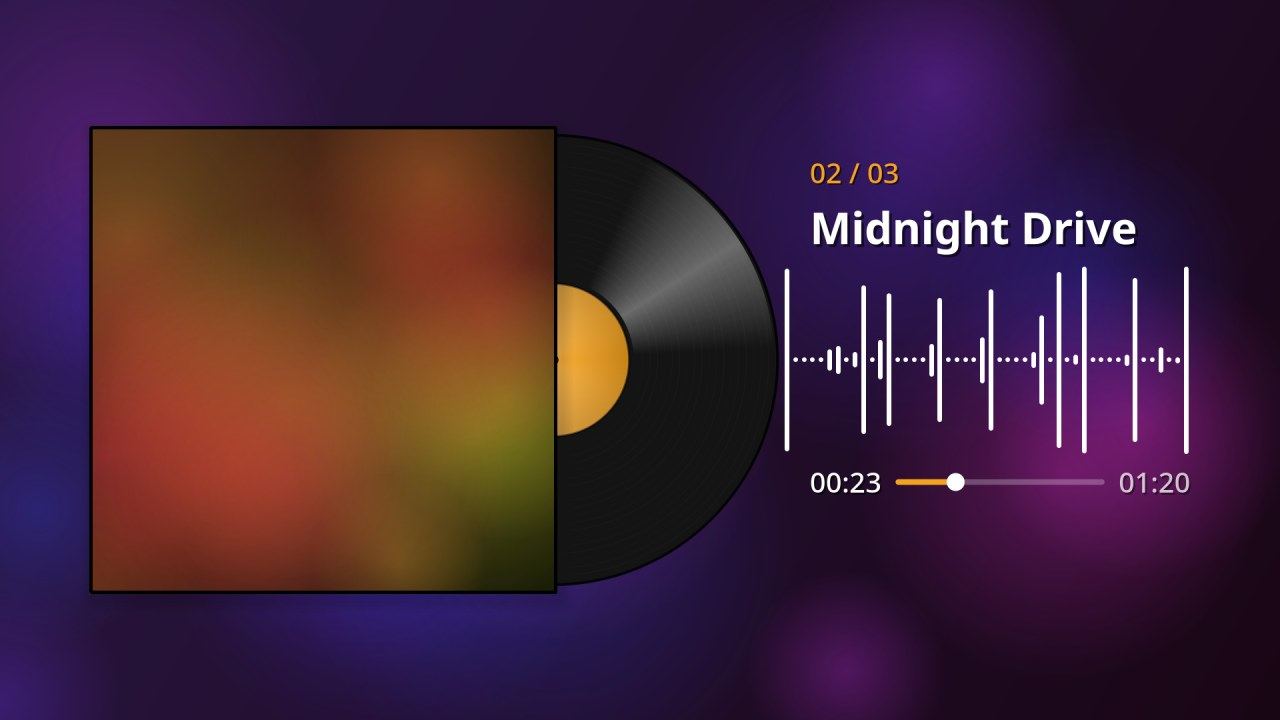
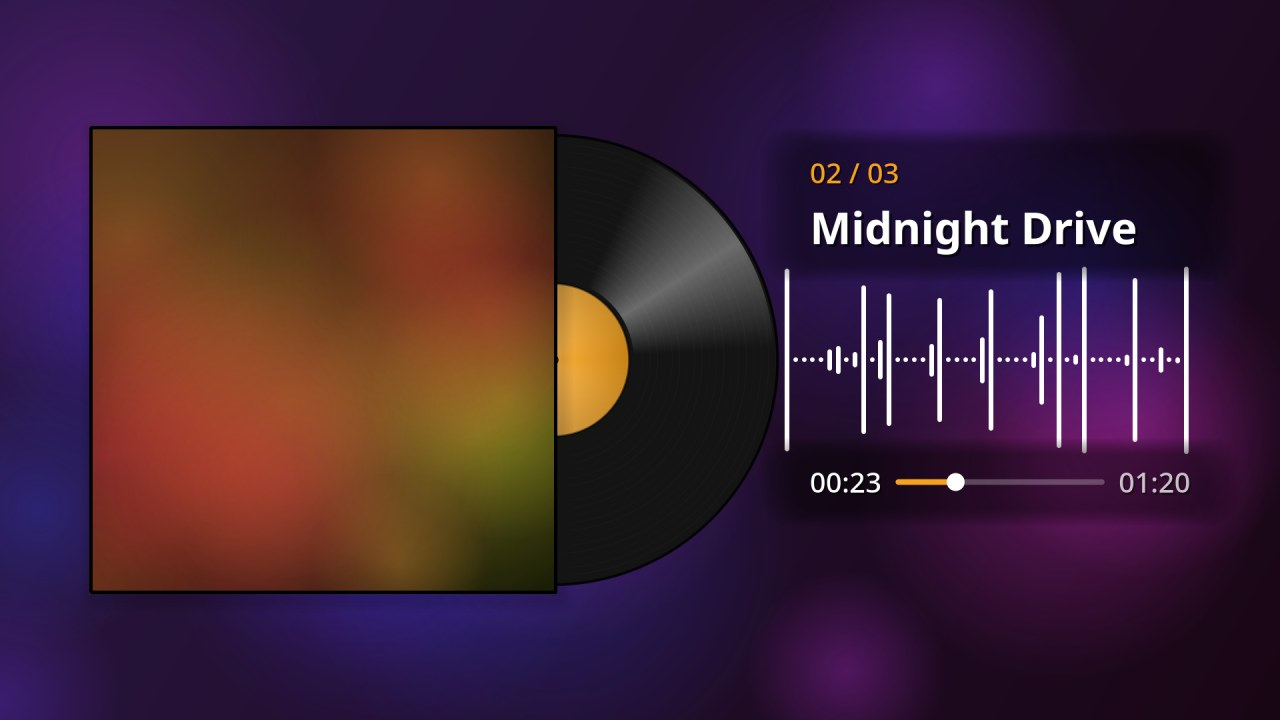
Vinil: fundo escuro atrás do nome e do contador
Nova opção em Nome e contador: 'Fundo atrás do texto' — Sombra suave (esfumada,
padrão), Painel de vidro ou Nenhum — com opacidade (padrão 45%) e cor. Escurece
só a área do texto (blocos alinhados em coluna), sem cobrir capa, disco nem onda.
Custo ~1 ms/quadro em 1080p. Teste novo (55).

Changed region(s): [[0.5938, 0.1833, 0.9375, 0.3972], [0.7188, 0.6111, 0.9688, 0.7333]]

diff --git a/src/wavegen/styles/vinyl.py b/src/wavegen/styles/vinyl.py
@@ -125,6 +125,14 @@ class Vinyl(Style):
         ParamSpec("text_shadow", "Sombra no texto", "bool", True, group="Nome e contador"),
         ParamSpec("title_anim", "Animar troca de faixa", "bool", True, group="Nome e contador",
                   tip="O nome entra deslizando quando a faixa muda"),
+        ParamSpec("text_bg", "Fundo atrás do texto", "choice", "soft", group="Nome e contador",
+                  choices=[("soft", "Sombra suave (esfumada)"), ("glass", "Painel de vidro"),
+                           ("off", "Nenhum")],
+                  tip="Escurece só a área do nome e do contador para o texto se destacar"),
+        ParamSpec("text_bg_opacity", "Opacidade do fundo do texto", "float", 0.45, 0.0, 0.9, 0.05,
+                  group="Nome e contador", suffix=""),
+        ParamSpec("text_bg_color", "Cor do fundo do texto", "color", "#000000",
+                  group="Nome e contador"),
     ]
     default_box = (0.5, 0.5, 0.86, 0.65)
 
@@ -173,6 +181,60 @@ class Vinyl(Style):
 
     # ------------------------------------------------------------------ nome + contador
     @staticmethod
+    def _draw_text_bg(p, rects: list[QRectF], prm, S: float, area: QRectF):
+        """Escurece só a área do texto. Os pedaços próximos (número + nome, contador + barra)
+        viram um bloco; cada bloco ganha uma sombra esfumada ou um painel de vidro."""
+        rects = sorted(rects, key=lambda r: r.top())
+        blocks: list[QRectF] = []
+        for r in rects:
+            if blocks and r.top() <= blocks[-1].bottom() + S * 0.04:
+                blocks[-1] = blocks[-1].united(r)
+            else:
+                blocks.append(QRectF(r))
+        # mesma largura para todos os blocos: forma uma coluna alinhada, mais harmoniosa
+        x0 = min(b.left() for b in blocks)
+        x1 = max(b.right() for b in blocks)
+        blocks = [QRectF(x0, b.top(), x1 - x0, b.height()) for b in blocks]
+        op = float(prm["text_bg_opacity"])
+        base = QColor(prm["text_bg_color"])
+        padx, pady = S * 0.035, S * 0.018
+        p.save()
+        p.setRenderHint(p.RenderHint.Antialiasing)
+        p.setPen(Qt.NoPen)
+        for b in blocks:
+            r = b.adjusted(-padx, -pady, padx, pady)
+            if prm["text_bg"] == "glass":
+                rad = min(r.height() / 2, S * 0.035)
+                c = QColor(base)
+                c.setAlphaF(op)
+                p.setBrush(c)
+                p.drawRoundedRect(r, rad, rad)
+                hl = QLinearGradient(r.topLeft(), r.bottomLeft())     # brilho sutil no topo
+                hl.setColorAt(0.0, QColor(255, 255, 255, int(28 * min(1.0, op * 2))))
+                hl.setColorAt(0.5, QColor(255, 255, 255, 0))
+                p.setBrush(hl)
+                p.drawRoundedRect(r, rad, rad)
+                p.setBrush(Qt.NoBrush)
+                p.setPen(QPen(QColor(255, 255, 255, int(40 * min(1.0, op * 2))), max(1.0, S * 0.0025)))
+                p.drawRoundedRect(r.adjusted(0.5, 0.5, -0.5, -0.5), rad, rad)
+                p.setPen(Qt.NoPen)
+            else:
+                # sombra esfumada: camadas sobrepostas, mais forte no centro e sumindo nas
+                # bordas, sem contorno visível — escurece sem "caixa"
+                n = 16
+                feather = S * 0.07
+                a1 = 1 - (1 - min(op, 0.95)) ** (1 / n)
+                c = QColor(base)
+                c.setAlphaF(a1)
+                p.setBrush(c)
+                for i in range(n):
+                    e = feather * (1 - i / (n - 1))
+                    rr = r.adjusted(-e, -e * 0.5, e, e * 0.5)
+                    rad = min(rr.height() / 2, S * 0.06)
+                    p.drawRoundedRect(rr, rad, rad)
+        p.restore()
+
+    @staticmethod
     def _fmt(sec: float, hours: bool) -> str:
         sec = max(0, int(sec))
         h, m, s = sec // 3600, sec % 3600 // 60, sec % 60
@@ -199,7 +261,14 @@ class Vinyl(Style):
                     pass
             return f
 
+        rects: list[QRectF] = []
+        measuring = [False]
+
         def text(x, y_base, s, f, c, alpha=1.0):
+            if measuring[0]:
+                fm = QFontMetricsF(f)
+                rects.append(QRectF(x, y_base - fm.ascent(), fm.horizontalAdvance(s), fm.height()))
+                return
             p.setFont(f)
             if prm["text_shadow"]:
                 sh = QColor(0, 0, 0, int(150 * alpha))
@@ -236,66 +305,73 @@ class Vinyl(Style):
 
         p.save()
         p.setRenderHint(p.RenderHint.TextAntialiasing)
-        if prm["show_title"]:
-            a, dx = 1.0, 0.0
-            if prm["title_anim"] and d.track_start > 0:          # não anima a 1ª faixa
-                ph = min(1.0, d.track_pos / 0.7)
-                e = 1 - (1 - ph) ** 3                         # ease-out
-                a, dx = e, (1 - e) * S * 0.12
-            if num_h:
-                num = f"{d.track_index:02d} / {d.track_count:02d}"
-                text(x + dx, y_title + fm_s.ascent(), num, f_small, acc, a)
-            # nome longo: diminui a fonte (até 60%) antes de cortar com "…"
-            ft, fmt = f_title, fm_t
-            tw = fm_t.horizontalAdvance(d.track_title)
-            if tw > wmax:
-                ft = font(f_title.pixelSize() * max(0.6, wmax / tw), QFont.Bold)
-                fmt = QFontMetricsF(ft)
-            title = fmt.elidedText(d.track_title, Qt.ElideRight, wmax)
-            base_y = y_title + num_h + fm_t.ascent() - (fm_t.ascent() - fmt.ascent()) * 0.5
-            text(x + dx, base_y, title, ft, col, a)
+        use_bg = prm["text_bg"] != "off" and prm["text_bg_opacity"] > 0
+        for measuring[0] in ((True, False) if use_bg else (False,)):
+            if not measuring[0] and rects:
+                self._draw_text_bg(p, rects, prm, S, area)
+            if prm["show_title"]:
+                a, dx = 1.0, 0.0
+                if prm["title_anim"] and d.track_start > 0:          # não anima a 1ª faixa
+                    ph = min(1.0, d.track_pos / 0.7)
+                    e = 1 - (1 - ph) ** 3                         # ease-out
+                    a, dx = e, (1 - e) * S * 0.12
+                if num_h:
+                    num = f"{d.track_index:02d} / {d.track_count:02d}"
+                    text(x + dx, y_title + fm_s.ascent(), num, f_small, acc, a)
+                # nome longo: diminui a fonte (até 60%) antes de cortar com "…"
+                ft, fmt = f_title, fm_t
+                tw = fm_t.horizontalAdvance(d.track_title)
+                if tw > wmax:
+                    ft = font(f_title.pixelSize() * max(0.6, wmax / tw), QFont.Bold)
+                    fmt = QFontMetricsF(ft)
+                title = fmt.elidedText(d.track_title, Qt.ElideRight, wmax)
+                base_y = y_title + num_h + fm_t.ascent() - (fm_t.ascent() - fmt.ascent()) * 0.5
+                text(x + dx, base_y, title, ft, col, a)
 
-        if prm["show_counter"]:
-            hours = d.track_len >= 3600
-            el, tot = d.track_pos, d.track_len
-            mode = prm["counter_mode"]
-            if mode == "remaining":
-                left_s, right_s = "-" + self._fmt(tot - el, hours), ""
-            elif mode == "elapsed":
-                left_s, right_s = self._fmt(el, hours), ""
-            else:
-                left_s, right_s = self._fmt(el, hours), self._fmt(tot, hours)
-            if not prm["show_title"] and num_h:
-                left_s = f"{d.track_index:02d}/{d.track_count:02d}   " + left_s
-            yb = y_cnt + fm_s.ascent()
-            if prm["show_progress"]:
-                bar_y = y_cnt + fm_s.height() * 0.5
-                lw = fm_s.horizontalAdvance(left_s) + S * 0.03
-                rw = (fm_s.horizontalAdvance(right_s) + S * 0.03) if right_s else 0.0
-                bx0, bx1 = x + lw, x + wmax - rw
-                if bx1 - bx0 < S * 0.15:                     # pouco espaço: barra embaixo
-                    bx0, bx1 = x, x + wmax
-                    bar_y = y_cnt + fm_s.height() * 1.45
-                    rw = 0.0
-                text(x, yb, left_s, f_small, col)
-                if right_s:
-                    rx = x + wmax - fm_s.horizontalAdvance(right_s)
-                    text(rx, yb, right_s, f_small, col, 0.75)
-                th = max(2.0, S * 0.012 * k)
-                frac = 0.0 if tot <= 0 else min(1.0, el / tot)
-                p.setPen(Qt.NoPen)
-                bg = QColor(col)
-                bg.setAlphaF(0.25)
-                p.setBrush(bg)
-                p.drawRoundedRect(QRectF(bx0, bar_y - th / 2, bx1 - bx0, th), th / 2, th / 2)
-                p.setBrush(acc)
-                fx = bx0 + (bx1 - bx0) * frac
-                p.drawRoundedRect(QRectF(bx0, bar_y - th / 2, max(th, fx - bx0), th), th / 2, th / 2)
-                p.setBrush(col)
-                p.drawEllipse(QPointF(fx, bar_y), th * 1.6, th * 1.6)
-            else:
-                s = left_s + (f"  /  {right_s}" if right_s else "")
-                text(x, yb, s, f_small, col)
+            if prm["show_counter"]:
+                hours = d.track_len >= 3600
+                el, tot = d.track_pos, d.track_len
+                mode = prm["counter_mode"]
+                if mode == "remaining":
+                    left_s, right_s = "-" + self._fmt(tot - el, hours), ""
+                elif mode == "elapsed":
+                    left_s, right_s = self._fmt(el, hours), ""
+                else:
+                    left_s, right_s = self._fmt(el, hours), self._fmt(tot, hours)
+                if not prm["show_title"] and num_h:
+                    left_s = f"{d.track_index:02d}/{d.track_count:02d}   " + left_s
+                yb = y_cnt + fm_s.ascent()
+                if prm["show_progress"]:
+                    bar_y = y_cnt + fm_s.height() * 0.5
+                    lw = fm_s.horizontalAdvance(left_s) + S * 0.03
+                    rw = (fm_s.horizontalAdvance(right_s) + S * 0.03) if right_s else 0.0
+                    bx0, bx1 = x + lw, x + wmax - rw
+                    if bx1 - bx0 < S * 0.15:                     # pouco espaço: barra embaixo
+                        bx0, bx1 = x, x + wmax
+                        bar_y = y_cnt + fm_s.height() * 1.45
+                        rw = 0.0
+                    text(x, yb, left_s, f_small, col)
+                    if right_s:
+                        rx = x + wmax - fm_s.horizontalAdvance(right_s)
+                        text(rx, yb, right_s, f_small, col, 0.75)
+                    th = max(2.0, S * 0.012 * k)
+                    if measuring[0]:
+                        rects.append(QRectF(bx0, bar_y - th * 1.6, bx1 - bx0, th * 3.2))
+                        continue
+                    frac = 0.0 if tot <= 0 else min(1.0, el / tot)
+                    p.setPen(Qt.NoPen)
+                    bg = QColor(col)
+                    bg.setAlphaF(0.25)
+                    p.setBrush(bg)
+                    p.drawRoundedRect(QRectF(bx0, bar_y - th / 2, bx1 - bx0, th), th / 2, th / 2)
+                    p.setBrush(acc)
+                    fx = bx0 + (bx1 - bx0) * frac
+                    p.drawRoundedRect(QRectF(bx0, bar_y - th / 2, max(th, fx - bx0), th), th / 2, th / 2)
+                    p.setBrush(col)
+                    p.drawEllipse(QPointF(fx, bar_y), th * 1.6, th * 1.6)
+                else:
+                    s = left_s + (f"  /  {right_s}" if right_s else "")
+                    text(x, yb, s, f_small, col)
         p.restore()
 
     def _draw_wave(self, p, area: QRectF, d, prm, u, S):

diff --git a/tests/test_core.py b/tests/test_core.py
@@ -825,6 +825,35 @@ class TestVinylQuality(unittest.TestCase):
             self.assertGreater(len(runs), 8)
             self.assertLessEqual(max(runs) - min(runs), 0, f"larguras {sorted(set(runs))}")
 
+    def test_text_backdrop_darkens_only_text_area(self):
+        from PySide6.QtCore import QRectF
+        from PySide6.QtGui import QColor, QImage, QPainter
+        from wavegen.styles import FrameData, get_style
+        st = get_style("vinyl")
+
+        def render(mode):
+            prm = st.resolve({"text_bg": mode, "text_bg_opacity": 0.6, "text_shadow": False})
+            img = QImage(1200, 400, QImage.Format_ARGB32_Premultiplied)
+            img.fill(QColor("#f4e8d0"))                       # fundo claro
+            d = FrameData(t=30.0, n=900)
+            d.envelope_from = lambda t0, win, k: np.zeros(k, np.float32)
+            d.track_title, d.track_index, d.track_count = "Faixa de teste", 1, 3
+            d.track_pos, d.track_len, d.track_start = 30.0, 200.0, 0.0
+            p = QPainter(img)
+            p.setRenderHint(QPainter.Antialiasing)
+            st.draw(p, QRectF(0, 0, 1200, 400), d, prm, 1.0)
+            p.end()
+            return np.frombuffer(img.constBits(), np.uint8).reshape(400, 1200, 4)[..., :3].mean(-1)
+
+        off, soft, glass = render("off"), render("soft"), render("glass")
+        changed = np.abs(soft - off) > 8
+        ys, xs = np.nonzero(changed)
+        self.assertGreater(len(xs), 1000)
+        self.assertGreater(xs.min(), 400)                     # nada sobre a capa
+        self.assertLess(soft[changed].mean(), off[changed].mean() - 40)   # escurece
+        self.assertLess(glass[changed].mean(), off[changed].mean() - 40)
+        self.assertLess(changed[150:250].mean(), 0.05)        # faixa da onda quase intacta
+
     def test_cover_prescaled_with_area_filter(self):
         from PySide6.QtGui import QColor, QImage
         from wavegen.styles.vinyl import scaled_square

diff --git a/README.md b/README.md
@@ -200,7 +200,10 @@ De dentro da pasta do código, `uv run wavegen` também funciona.
 - **Nome e contador**: nome da música que está tocando (das tags, do nome do arquivo ou do
   título editado na Lista de faixas), número da faixa (01 / 12) e contador com barra de
   progresso: tempo/duração, tempo restante ou decorrido. Posição (nome em cima e contador
-  embaixo, tudo em cima ou tudo embaixo), tamanho, cores e sombra. O nome entra deslizando a
+  embaixo, tudo em cima ou tudo embaixo), tamanho, cores e sombra.
+- **Fundo atrás do texto**: escurece só a área do nome e do contador para o texto se destacar
+  em capas e fundos claros. *Sombra suave* (esfumada, sem bordas; padrão), *Painel de vidro*
+  (cantos arredondados com brilho sutil) ou *Nenhum*, com opacidade e cor ajustáveis. O nome entra deslizando a
   cada troca de faixa, e nomes longos diminuem a fonte para caber.
 - **Waveform**: reage às batidas (picos, como nos vídeos de referência) ou ao volume.
 - Para um efeito de “green screen”, deixe o fundo sem imagem com a cor verde (aba Fundo), ou
